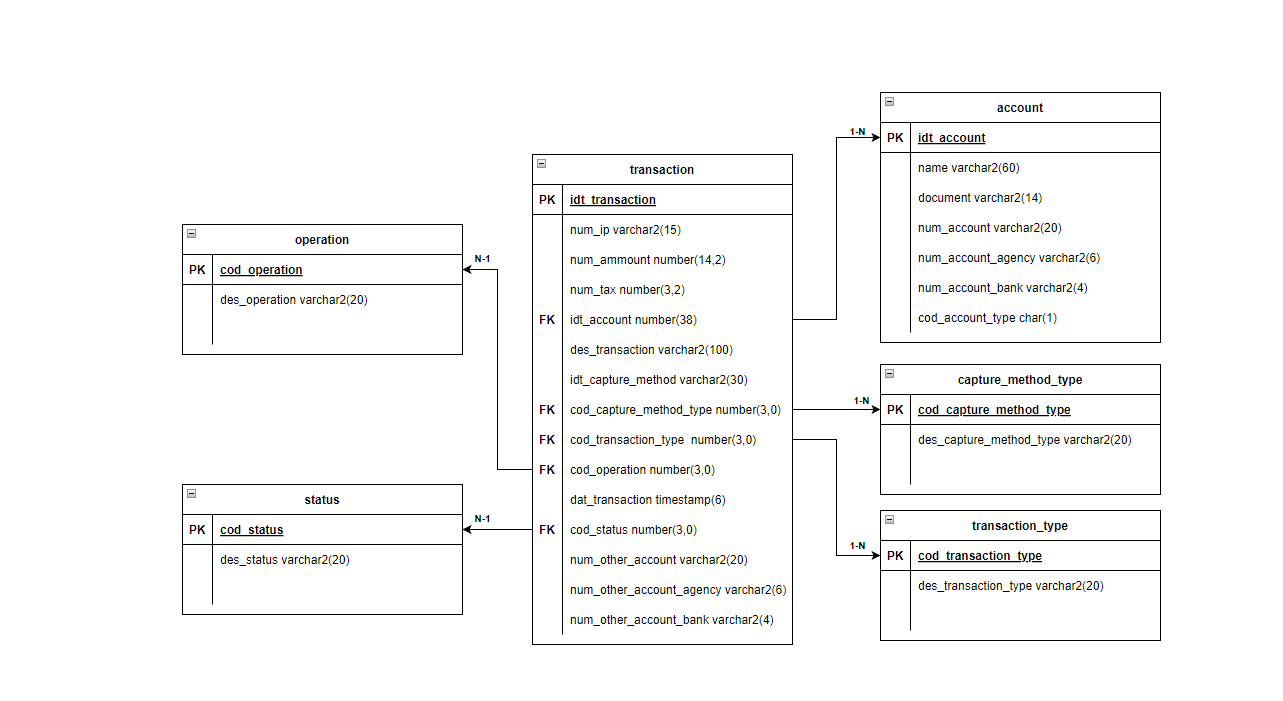
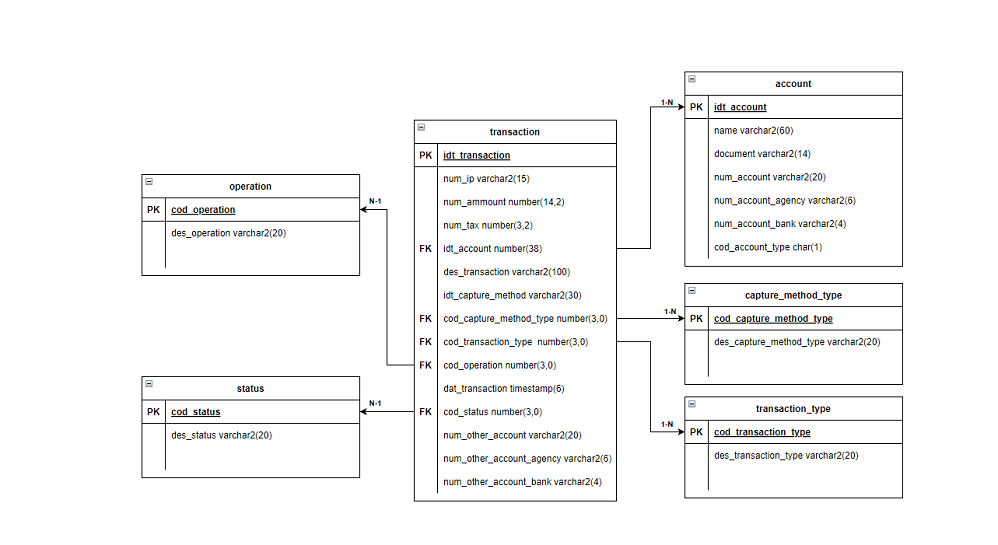
docs: fix database img and add status img
RG-6400

diff --git a/README.md b/README.md
@@ -26,3 +26,9 @@ the API registers these transactions in the database for future treatment.
 The database modelling diagram:
 
 ![Database](./src/main/resources/images/database.png)
+
+The status for transaction are:
+
+![Status](./src/main/resources/images/status.png)
+
+The transaction status always starts as pending and can go to success or cancelled, and cannot be changed later.
